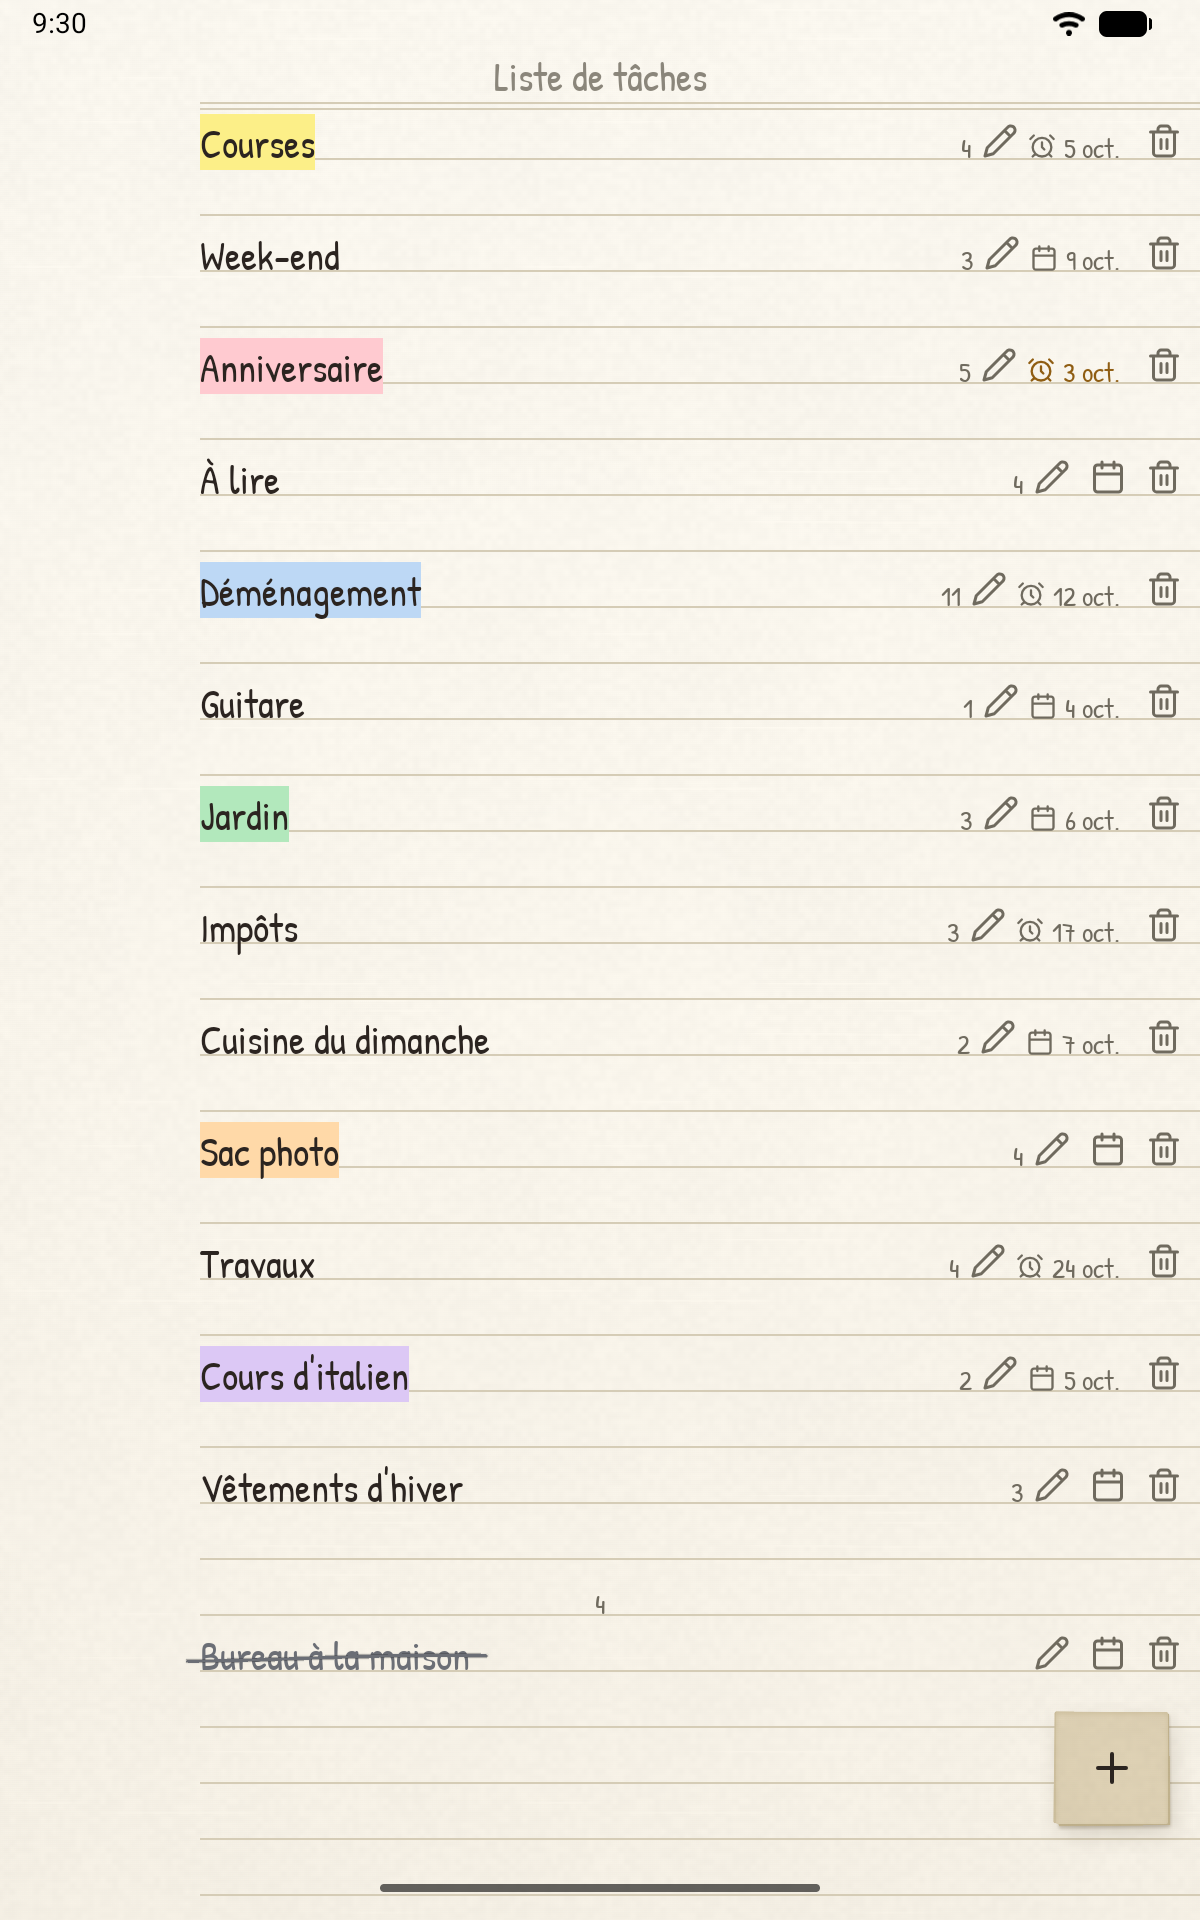
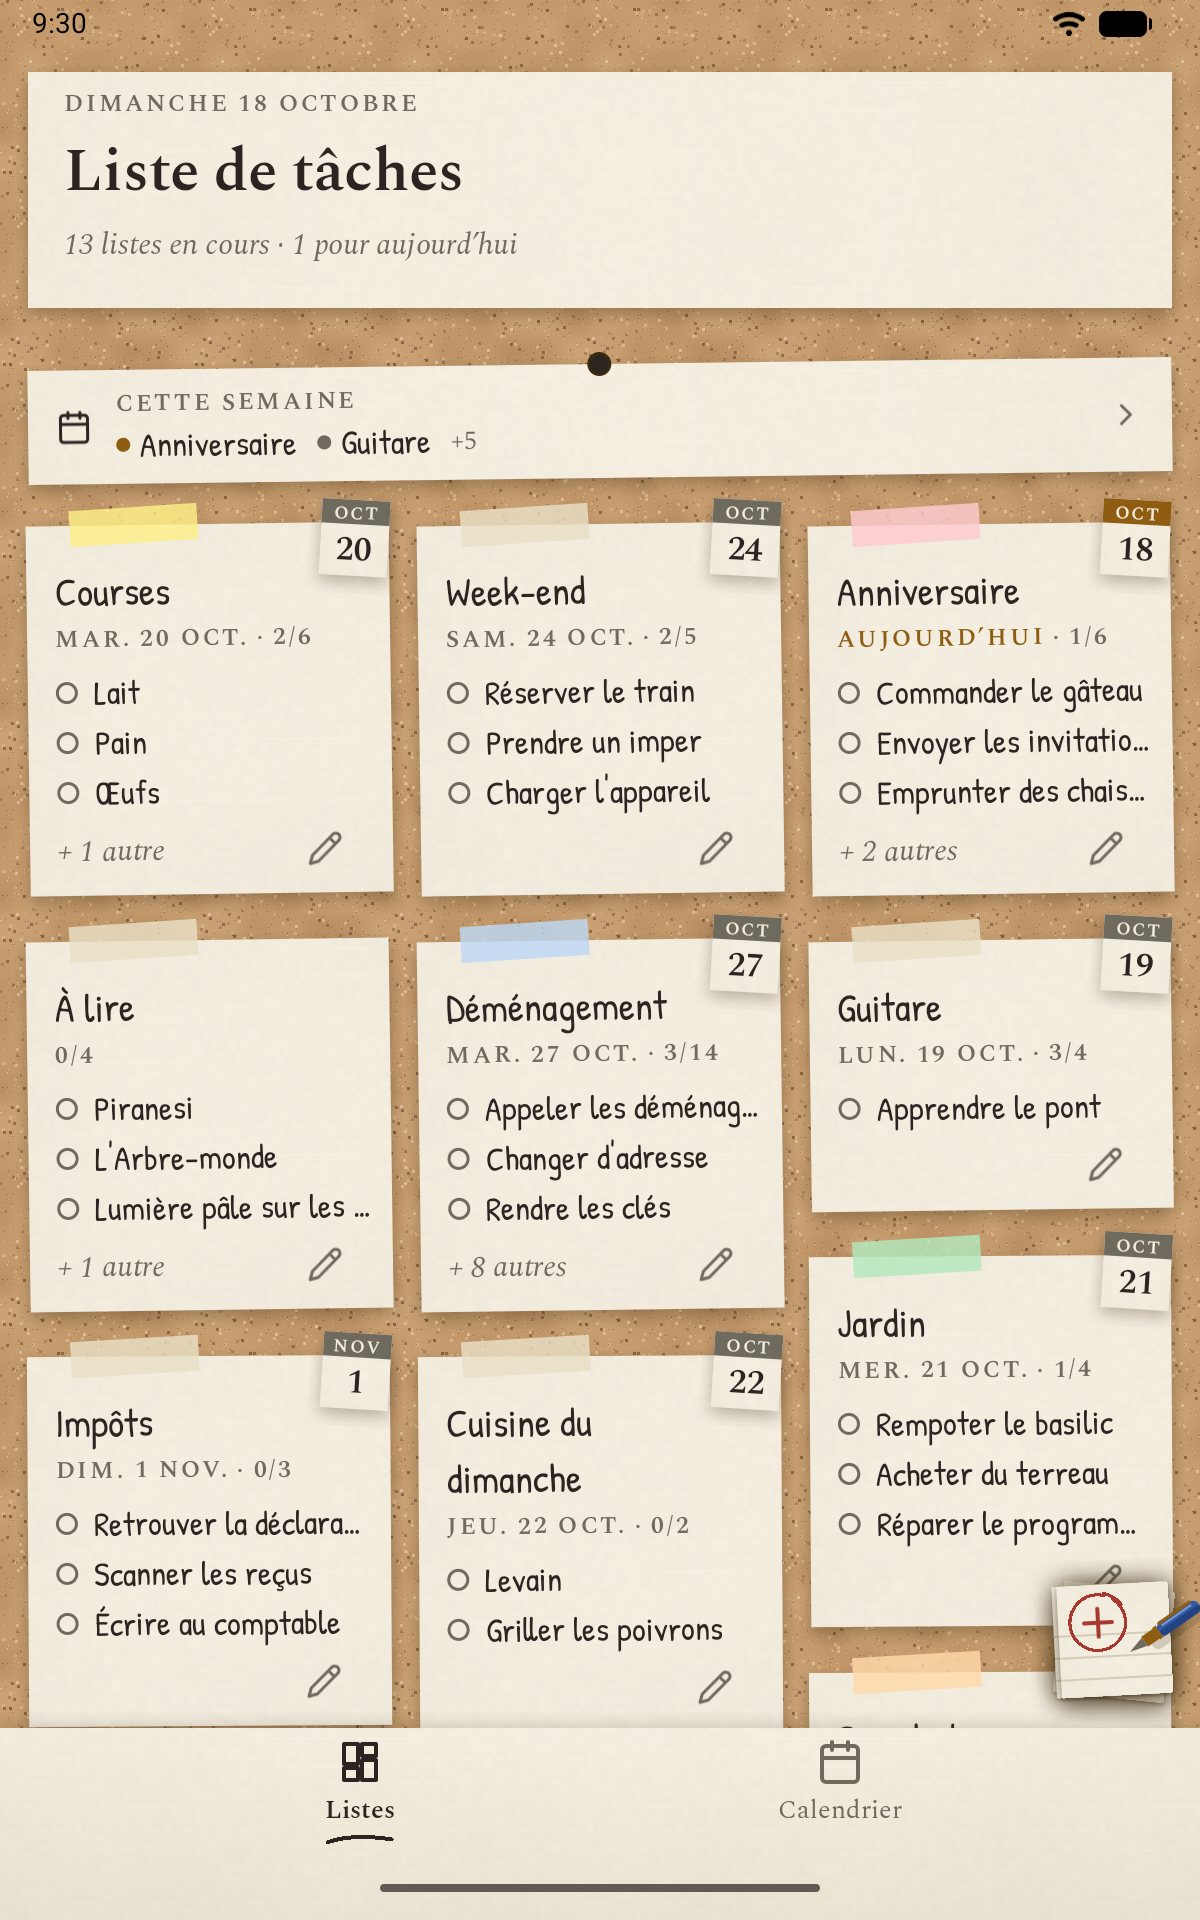
chore: reshoot the store for 3.0.0
The board is a corkboard now, so the date shot goes through the list's pencil
sheet. The dark shots had become copies of the light ones since the paper has one
theme; the Calendar tab takes their place. The feature graphic is redrawn around
the new board and publish-play.py can now upload it.

diff --git a/store-assets/tools/publish-play.py b/store-assets/tools/publish-play.py
@@ -3,7 +3,7 @@
 
     python3 publish-play.py [--bundle AAB --mapping TXT --track TRACK
                              --release-name NAME --notes-dir DIR]
-                            [--screenshots]
+                            [--screenshots] [--feature-graphic]
                             [--validate-only] [--changes-not-sent-for-review]
                             [--dry-run]
 
@@ -11,7 +11,9 @@ Everything goes into one edit, and the edit is committed once at the end, so the
 listing never shows half an update. With --bundle, the bundle and its R8 mapping
 are uploaded and released on TRACK with the notes in DIR/<language>.txt. With
 --screenshots, every screenshot slot of every language under
-store-assets/screenshots/<language>/ is emptied and refilled.
+store-assets/screenshots/<language>/ is emptied and refilled. With
+--feature-graphic, store-assets/listing/feature-graphic.png replaces the
+feature graphic of every language that has a screenshots directory.
 
 The service account key is read from $PLAY_SERVICE_ACCOUNT, or
 ~/.config/todolist/play-service-account.json — see store-assets/README.md.
@@ -25,6 +27,7 @@ SCOPE = "https://www.googleapis.com/auth/androidpublisher"
 API = f"https://androidpublisher.googleapis.com/androidpublisher/v3/applications/{PKG}"
 UPLOAD = f"https://androidpublisher.googleapis.com/upload/androidpublisher/v3/applications/{PKG}"
 SCREENSHOTS = os.path.join(os.path.dirname(os.path.dirname(os.path.abspath(__file__))), "screenshots")
+FEATURE_GRAPHIC = os.path.join(os.path.dirname(SCREENSHOTS), "listing", "feature-graphic.png")
 DEFAULT_KEY = os.path.expanduser("~/.config/todolist/play-service-account.json")
 
 SLOTS = [
@@ -103,12 +106,23 @@ def publish_bundle(play, edit, args):
                       "status": "completed", "releaseNotes": notes}]})
 
 
-def publish_screenshots(play, edit):
+def listing_languages():
     languages = sorted(d for d in os.listdir(SCREENSHOTS)
                        if os.path.isdir(os.path.join(SCREENSHOTS, d)))
     if not languages:
         raise PlayError(f"no <language>/ directories in {SCREENSHOTS}")
-    for language in languages:
+    return languages
+
+
+def publish_feature_graphic(play, edit):
+    for language in listing_languages():
+        play.call("DELETE", f"{API}/edits/{edit}/listings/{language}/featureGraphic")
+        play.upload(f"{UPLOAD}/edits/{edit}/listings/{language}/featureGraphic",
+                    FEATURE_GRAPHIC, "image/png")
+
+
+def publish_screenshots(play, edit):
+    for language in listing_languages():
         for slot, pattern in SLOTS:
             shots = sorted(glob.glob(os.path.join(SCREENSHOTS, language, pattern)))
             if not 2 <= len(shots) <= 8:
@@ -126,6 +140,7 @@ def main():
     p.add_argument("--release-name")
     p.add_argument("--notes-dir")
     p.add_argument("--screenshots", action="store_true")
+    p.add_argument("--feature-graphic", action="store_true")
     p.add_argument("--validate-only", action="store_true")
     p.add_argument("--changes-not-sent-for-review", action="store_true")
     p.add_argument("--dry-run", action="store_true")
@@ -134,8 +149,8 @@ def main():
     release = [args.bundle, args.mapping, args.track, args.release_name, args.notes_dir]
     if any(release) and not all(release):
         p.error("--bundle needs --mapping, --track, --release-name and --notes-dir")
-    if not args.bundle and not args.screenshots:
-        p.error("nothing to publish: pass --bundle, --screenshots, or both")
+    if not args.bundle and not args.screenshots and not args.feature_graphic:
+        p.error("nothing to publish: pass --bundle, --screenshots, --feature-graphic, or any mix")
 
     key = os.environ.get("PLAY_SERVICE_ACCOUNT", DEFAULT_KEY)
     play = Play("dry-run" if args.dry_run else access_token(key), args.dry_run)
@@ -145,6 +160,8 @@ def main():
             publish_bundle(play, edit, args)
         if args.screenshots:
             publish_screenshots(play, edit)
+        if args.feature_graphic:
+            publish_feature_graphic(play, edit)
         if args.validate_only:
             play.call("POST", f"{API}/edits/{edit}:validate")
             play.call("DELETE", f"{API}/edits/{edit}")

diff --git a/store-assets/tools/capture-screenshots.py b/store-assets/tools/capture-screenshots.py
@@ -3,7 +3,7 @@
 
     python3 capture-screenshots.py <serial> <outdir> <prefix> <shot>...
 
-A shot is one of: lists, items, date, and the -dark variant of each. The demo
+A shot is one of: lists, items, date, calendar, and the -dark variant of each. The demo
 database comes from SEED_DIR (default: this directory) and is named by SEED_DB
 (default: todo_database) — see make-demo-database.py. LOCALE (default: en-US)
 picks the app's language and the names the script looks for; the database has
@@ -18,9 +18,9 @@ SEED = os.environ.get("SEED_DIR", os.path.dirname(os.path.abspath(__file__)))
 LOCALE = os.environ.get("LOCALE", "en-US")
 WORDS = {
     "en-US": {"first": "Groceries", "open": "Apartment move", "undated": "Reading list",
-              "give_a_day": "Give this list a day"},
+              "actions": "Edit this list", "calendar": "Calendar", "give_a_day": "Give it a day"},
     "fr-FR": {"first": "Courses", "open": "Déménagement", "undated": "À lire",
-              "give_a_day": "Donner un jour à cette liste"},
+              "actions": "Modifier cette liste", "calendar": "Calendrier", "give_a_day": "Lui donner un jour"},
 }[LOCALE]
 
 
@@ -64,7 +64,8 @@ def find(xml, *, text=None, desc=None, near=None):
         return None
     if near is None:
         return hits[0]
-    return min(hits, key=lambda p: abs(p[1] - near[1]))
+    below = [p for p in hits if p[1] >= near[1]] or hits
+    return min(below, key=lambda p: abs(p[0] - near[0]) + abs(p[1] - near[1]))
 
 
 def need(xml, **kw):
@@ -148,7 +149,11 @@ def main():
         if f"date{tag}" in want:
             xml = dump(dev)
             row = need(xml, text=WORDS["undated"])
-            cx, cy = need(xml, desc=WORDS["give_a_day"], near=row)
+            px, py = need(xml, desc=WORDS["actions"], near=row)
+            shell(dev, f"input tap {px} {py}")
+            time.sleep(2)
+            xml = dump(dev)
+            cx, cy = find(xml, text=WORDS["give_a_day"]) or need(xml, desc=WORDS["give_a_day"])
             shell(dev, f"input tap {cx} {cy}")
             time.sleep(3)
             screencap(dev, f"{outdir}/{prefix}-date{tag}.png")
@@ -156,6 +161,13 @@ def main():
             time.sleep(1)
             shell(dev, "input keyevent KEYCODE_BACK")
             time.sleep(1)
+
+        if f"calendar{tag}" in want:
+            launch(dev)
+            x, y = need(dump(dev), text=WORDS["calendar"])
+            shell(dev, f"input tap {x} {y}")
+            time.sleep(3)
+            screencap(dev, f"{outdir}/{prefix}-calendar{tag}.png")
 
     shell(dev, "cmd uimode night no")
     shell(dev, f"cmd locale set-app-locales {PKG} --locales ''")

diff --git a/store-assets/tools/reshoot-store.py b/store-assets/tools/reshoot-store.py
@@ -3,7 +3,7 @@
 
     python3 reshoot-store.py [serial]
 
-Writes store-assets/screenshots/<locale>/ for en-US and fr-FR: five phone shots
+Writes store-assets/screenshots/<locale>/ for en-US and fr-FR: four phone shots
 and three shots at each tablet size. The debug build has to be installed on the
 emulator first (./gradlew installDebug). The emulator is resized for each form
 factor and put back as it was at the end — see store-assets/README.md.
@@ -20,14 +20,13 @@ LOCALES = {"en-US": [], "fr-FR": ["--fr"]}
 FORM_FACTORS = [
     ("phone", "1080x1920", "420", "todo_database", "", [
         ("lists", "phone-01-lists"), ("items", "phone-02-items"),
-        ("date", "phone-03-calendar"), ("lists-dark", "phone-04-lists-dark"),
-        ("items-dark", "phone-05-items-dark")]),
+        ("calendar", "phone-03-calendar"), ("date", "phone-04-date")]),
     ("tablet7", "1200x1920", "320", "todo_database_big", "tablet-7", [
         ("lists", "tablet7-01-lists"), ("items", "tablet7-02-items"),
-        ("lists-dark", "tablet7-03-lists-dark")]),
+        ("calendar", "tablet7-03-calendar")]),
     ("tablet10", "1600x2560", "320", "todo_database_big", "tablet-10", [
         ("lists", "tablet10-01-lists"), ("items", "tablet10-02-items"),
-        ("lists-dark", "tablet10-03-lists-dark")]),
+        ("calendar", "tablet10-03-calendar")]),
 ]
 
 

diff --git a/store-assets/listing/make-feature-graphic.py b/store-assets/listing/make-feature-graphic.py
@@ -45,7 +45,7 @@ BEZEL = (28, 27, 31)
 ICON = (56, 175, 156)          # x, y, size
 TILT = -8
 PHONE = (682, 0, 270, 500)     # x, y, width, height, before the tilt
-CROP = (101, 0, 979, 1560)     # the screenshot without its empty tail
+CROP = (40, 0, 1040, 1920)     # the whole board, trimmed to the screen's aspect
 BEZEL_R, SCREEN_R, SCREEN_INSET = 38, 28, 10
 PIVOT = (840, 250)
 

diff --git a/store-assets/tools/make-demo-database.py b/store-assets/tools/make-demo-database.py
@@ -4,7 +4,7 @@ OUT = sys.argv[1]
 if os.path.exists(OUT): os.remove(OUT)
 IDENTITY = "b729c140d99c9e64b7ff2c977a7fa1bd"
 
-TODAY = 20729  # 2026-10-03
+TODAY = 20744  # 2026-10-18
 
 # (id, name, targetDay, dueDay, colour, [(title, completed), ...])
 LISTS = [

diff --git a/.claude/skills/release-store/SKILL.md b/.claude/skills/release-store/SKILL.md
@@ -83,10 +83,11 @@ option).
    `internal` (internal testers only; promote it in the console later). Preview: who
    receives the build.
 3. **Screenshots** — "Update the store screenshots?" Options: "Yes — reshoot in English
-   and French" and "No — keep the current listing images". Preview: for yes, the 22
+   and French" and "No — keep the current listing images". Preview: for yes, the 20
    files under `store-assets/screenshots/{en-US,fr-FR}/` that get regenerated and
-   replace the Play listing's phone, 7-inch and 10-inch slots in both languages; for
-   no, "listing images unchanged".
+   replace the Play listing's phone, 7-inch and 10-inch slots in both languages, plus
+   the feature graphic redrawn around the new board shot; for no, "listing images
+   unchanged".
 
 If the user picks "Don't release", stop. If they pick a different release type,
 recompute Step 3 with it.
@@ -147,7 +148,7 @@ If the demo database fails with a Room crash on screen, the schema moved: update
 `make-demo-database.py` from the newest `app/schemas/…/<n>.json`, and run 7c again.
 
 **7d. Look at every screenshot before going further.** `reshoot-store.py` cannot tell
-a good capture from a bad one. Read all five phone shots per language, and a contact
+a good capture from a bad one. Read all four phone shots per language, and a contact
 sheet of the tablet shots, and check each one for:
 - the app's page, not the splash screen (the logo alone, or the logo fading over the list)
 - no crash dialog, no notification glyph in the status bar
@@ -156,10 +157,18 @@ sheet of the tablet shots, and check each one for:
 
 If any shot fails, fix the cause and run 7c again. Never publish a set you have not seen.
 
-**7e. Commit the screenshots** (and the moved `TODAY`):
+**7e. Redraw the feature graphic.** Its phone shows `en-US/phone-01-lists.png`, so a
+reshoot leaves it stale. Look at it: the board's cards must not be cut at the screen's
+edges, and nothing may collide with the catchphrase.
 
 ```bash
-git add store-assets/screenshots store-assets/tools/make-demo-database.py
+(cd store-assets/listing && python3 make-feature-graphic.py)
+```
+
+**7f. Commit the screenshots** (and the moved `TODAY`):
+
+```bash
+git add store-assets/screenshots store-assets/listing/feature-graphic.png store-assets/tools/make-demo-database.py
 git commit -m "chore: reshoot the store for ${NEW_NAME}"
 ```
 
@@ -258,7 +267,8 @@ refuses over-long notes too, but catch it here.)
 ## Step 12 — Publish to Google Play
 
 One edit, one commit: the bundle, its mapping, the release on the chosen track with both
-languages' notes, and — only if the user said yes in Step 5 — the screenshots.
+languages' notes, and — only if the user said yes in Step 5 — the screenshots and the
+feature graphic.
 
 ```bash
 python3 store-assets/tools/publish-play.py \
@@ -267,7 +277,7 @@ python3 store-assets/tools/publish-play.py \
   --track "$TRACK" \
   --release-name "$NEW_NAME" \
   --notes-dir "$NOTES" \
-  $([ "$SCREENSHOTS" = yes ] && echo --screenshots)
+  $([ "$SCREENSHOTS" = yes ] && echo --screenshots --feature-graphic)
 ```
 
 On failure the script deletes the edit, so nothing half-done reaches the listing. Read
@@ -290,7 +300,7 @@ that is needed once the cause is fixed.
 
 ```
 ✓ Version bumped  : $CURRENT_NAME (code $CURRENT_CODE) → $NEW_NAME (code $NEW_CODE)
-✓ Screenshots     : reshot in en-US and fr-FR (22) | unchanged
+✓ Screenshots     : reshot in en-US and fr-FR (20) + feature graphic | unchanged
 ✓ AAB built       : app/build/outputs/bundle/release/app-release.aab
 ✓ GitHub release  : https://github.com/emmanuel-h/Todolist/releases/tag/$TAG
 ✓ Google Play     : $NEW_NAME on the $TRACK track, sent for review

diff --git a/store-assets/README.md b/store-assets/README.md
@@ -1,8 +1,10 @@
 # Store assets
 
 Everything the Play Console listing needs, and the tooling that regenerates it.
-The screenshots were reshot on 2026-10-03 for the tightened row controls and the
-per-list reminder time, and in French as well as English for the first time; the rest was redrawn on 2026-09-06 for the row controls,
+The screenshots were reshot on 2026-10-18 for the corkboard and the Calendar tab;
+the dark shots were dropped then, because the paper has one theme and they had
+become copies of the light ones. The 2026-10-03 set was the first in French as well
+as English; the rest was redrawn on 2026-09-06 for the row controls,
 the date slot and the per-list colours. The 2026-08-27 set shows the page before
 those, and anything older in the history shows the retired Material 3 build.
 
@@ -47,7 +49,9 @@ cd listing && python3 make-feature-graphic.py
 ```
 
 It reads `app/src/main/res/font/patrick_hand.ttf` — the hand the app writes in —
-and hard-codes the `PaperPalette.light` tones. Re-run it when the palette moves.
+and hard-codes the `PaperPalette.light` tones. Re-run it when the palette moves, and
+after every reshoot: the phone in it is `screenshots/en-US/phone-01-lists.png`.
+`publish-play.py --feature-graphic` uploads it to every listing language.
 
 ## The screenshots
 
